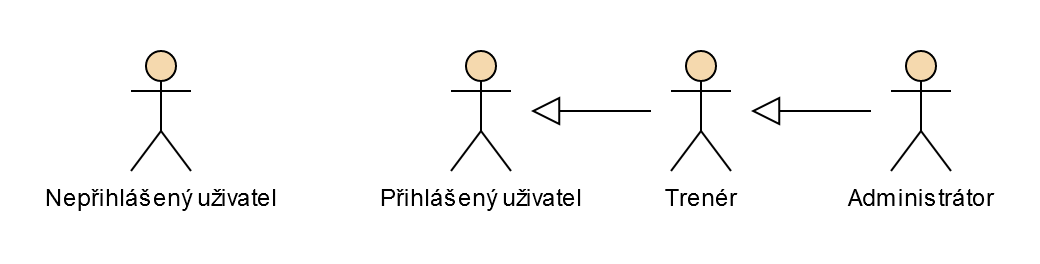
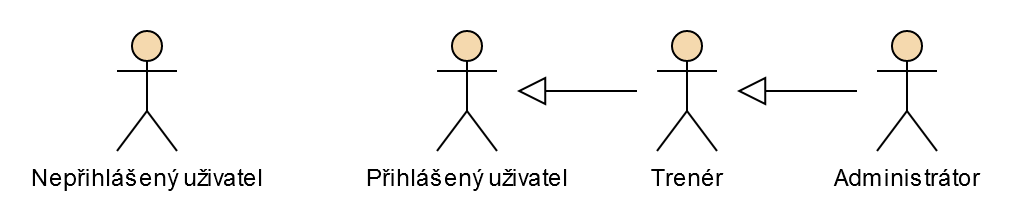
Complete use cases

diff --git a/chapters/analysis/use-cases.tex b/chapters/analysis/use-cases.tex
@@ -2,7 +2,7 @@
 Tato podkapitola se věnuje jednotlivým případům užití, které představují detailnější specifikaci funkčních požadavků. Případy užití poté mohou posloužit jako základ pro~tvorbu uživatelské dokumentace a~také mohou být podkladem pro~tvorbu akceptačních testů. \cite{usecases}
 
 \subsection{Aktéři}
-Aktérem (účastníkem) nazýváme uživatele, který bude pracovat se systémem. Celkem uvažujeme čtyři různé aktéry~–~přihlášeného a~nepřihlášeného uživatele, administrátora a~trenéra. Vztahy mezi těmito aktéry jsou popsány v~následujícím textu a~jsou znázorněny na~obrázku \ref{figure:actors}.
+Aktérem nebo~účastníkem nazýváme osobu (případně její roli), která bude pracovat se systémem. V~naší aplikaci uvažujeme celkem čtyři různé aktéry~–~přihlášeného a~nepřihlášeného uživatele, administrátora a~trenéra. Vztahy mezi těmito aktéry jsou popsány v~následujícím textu a~jsou znázorněny na~obrázku \ref{figure:actors}.
 \begin{description}
 	\item[Nepřihlášený uživatel]\hfill\newline
 	Nepřihlášený uživatel má přistup pouze k~přihlášení a~registraci. Po~provedení jedné z~těchto akcí se stane přihlášeným uživatelem.
@@ -18,14 +18,14 @@ Aktérem (účastníkem) nazýváme uživatele, který bude pracovat se systéme
 	\caption{Aktéři}
 	\label{figure:actors}
 	\centering
-	\includegraphics[width=\textwidth]{images/actors}
+	\includegraphics[width=0.9\textwidth]{images/actors}
 \end{figure}
 
 \subsection{Případy užití}
 \begin{enumerate}[label=\textcolor{decoration}{\textbf{UC\arabic*}}, leftmargin=1cm, align=left, labelwidth=8mm]
 
 	\myItem{registrace}
-	Před~prvním prací se systémem se musí člen klubu zaregistrovat. 
+	Před~prvním přístupem do~systému se musí člen klubu zaregistrovat. 
 	\begin{enumerateNumbers}
 		\item Nepřihlášený uživatel klikne na~položku \emph{Registrace} v~hlavní nabídce.
 		\item Pro~úspěšné dokončení registrace musí vyplnit svou e-mailou adresu, heslo, jméno a~příjmení a~kliknout na~tlačítko \emph{Registrovat}.
@@ -36,27 +36,27 @@ Aktérem (účastníkem) nazýváme uživatele, který bude pracovat se systéme
 	Nepřihlášený uživatel bude při~pokusu o~přístup do~systému vyzván k~přihlášení.
 	\begin{enumerateNumbers}
 		\item Nepřihlášený uživatel zadá svou e-mailovou adresu a~heslo a~klikne na~tlačítko \emph{Přihlásit}.
-		\item Uživatel bude přesměrován na~hlavní stránku aplikace nebo~na~stránku, na~kterou se snažil před~přihlášením přistoupit.
+		\item Pokud přihlášení proběhlo úspěšně, bude uživatel přesměrován na~hlavní stránku aplikace nebo~na~stránku, na~kterou se snažil před~přihlášením přistoupit.
 		\item Přihlášený uživatel má naopak možnost se ze~systému odhlásit kliknutím na~položku \emph{Odhlásit} v~hlavní nabídce.
-	\end{enumerateNumbers}	
+	\end{enumerateNumbers}
 
 	\myItem{zobrazení seznamu událostí\label{uc:listevents}}
 	Tento případ užití popisuje proces zobrazení seznamu událostí evidovaných v~systému.
 	\begin{enumerateNumbers}
-		\item Přihlášený uživatel klikne na~položku \emph{Události} v~hlavní nabídce.
-		\item Ve~výchozím nastavení se zobrazují všechny nadcházející události, avšak upravením nastavení v~horní části stránky lze zobrazit i~minulé události nebo~provést filtraci na~základě typu události, případně na~základě typu závodu.
-		\item Na~jedné stránce se vždy zobrazuje maximální 25~událostí, další události je možné zobrazit přejitím na~další (předchozí) stránku.
+		\item Přihlášený uživatel klikne na~položku \emph{Události} v~hlavní nabídce
+		\item Ve~výchozím nastavení se zobrazují všechny nadcházející události, avšak upravením filtru v~horní části stránky lze zobrazit i~minulé události nebo~provést filtraci na~základě typu události, případně na~základě typu závodu.
+		\item Na~jedné stránce se vždy zobrazuje maximální 25~událostí, další události je možné zobrazit přejitím na~následující (předchozí) stránku.
 	\end{enumerateNumbers}
 
 	\myItem{zobrazení detailních informací o~události\label{uc:eventdetail}}
-	Tento případ užití popisuje proces zobrazení detailních informací o~konkrétní události.
+	V~seznamu událostí jsou zobrazovány pouze základní informace o~událostech, pro~zobrazení detailních informací je nezbytné přejít na~samostatnou stránku.
 	\begin{enumerateNumbers}
 		\item Přihlášený uživatel se může prokliknout na~stránku s~informacemi o~události z(e):
 		\begin{enumerate}[label=\textcolor{decoration}{\textbf{\alph*.}}]
 			\item seznamu událostí (viz~\ref{uc:listevents}).
 			\item hlavní stránky, kde se zobrazuje 5~událostí, u~kterých nejdříve končí uzávěrka přihlášek, a~5~nejbližších událostí, na~které je uživatel přihlášený.
 		\end{enumerate}
-		\item Na~této stránce jsou následně zobrazeny všechny informace o~události, které se v~systému evidují (seznam evidovaných informací viz~\ref{f:events}).
+		\item Přechod na~stránku se~všemi evidovanými informacemi o~události (viz~\ref{f:events}) proběhne po~kliknutí na~název události v~jednom ze~seznamů uvedených výše.
 	\end{enumerateNumbers}
 
 	\myItem{přihlášení na~událost}
@@ -64,7 +64,7 @@ Aktérem (účastníkem) nazýváme uživatele, který bude pracovat se systéme
 	\begin{enumerateNumbers}
 		\item Přihlášený uživatel přejde na~stránku s~detailními informacemi o~události (viz~\ref{uc:eventdetail}).
 		\item Uživatel vybere jednu z~nabízených kategorií a~volitelně sdělí, zda má možnost jet vlastním autem a~svézt s~sebou i~další členy klubu.
-		\item Účast na~události potvrdí kliknutím na~tlačítko \emph{Přihlásit}.
+		\item Účast na~události potvrdí uživatel kliknutím na~tlačítko \emph{Přihlásit}.
 	\end{enumerateNumbers}
 
 	\myItem{odhlášení z~události}
@@ -75,26 +75,65 @@ Aktérem (účastníkem) nazýváme uživatele, který bude pracovat se systéme
 	\end{enumerateNumbers}
 
 	\myItem{napsání komentáře}
-	Tento případ užití popisuje přidání komentáře ke~konkrétní události.
+	Tento případ užití popisuje proces přidání komentáře ke~konkrétní události.
 	\begin{enumerateNumbers}
 		\item Přihlášený uživatel přejde na~stránku s~detailními informacemi o~události (viz~\ref{uc:eventdetail}).
-		\item Po~napsání komentáře do~příslušného textového pole klikne na~tlačítko \emph{Odeslat}.
+		\item Po~napsání komentáře do~textového pole klikne na~tlačítko \emph{Přidat komentář}.
 	\end{enumerateNumbers}
 
 	\myItem{úprava osobních údajů a~preferencí}
+	Přihlášený uživatel si může změnit svou e-mailovou adresu, heslo a~povolit (zakázat) zasílání informačních e-mailů.
+	\begin{enumerateNumbers}
+		\item Přihlášený uživatel klikne na~položku \emph{Nastavení} v~hlavní nabídce.
+		\item Po~upravení požadovaných údajů a~preferencí klikne na~tlačítko \emph{Uložit změny}.
+	\end{enumerateNumbers}
+
 	\myItem{přidání události}
+	Tento případ užití popisuje přidání nové události do~systému.
+	\begin{enumerateNumbers}
+		\item Trenér klikne na~položku \emph{Administrace} v~hlavní nabídce a~následně vybere možnost \emph{Vytvořit novou událost}.
+		\item Pokud je přidávaná událost již evidovaná v~IS~ORIS, může uživatel zadat ORIS~ID události a~většina požadovaných informací se automaticky předvyplnění.
+		\item Po~(do)vyplnění požadovaných informací se událost přidá do~systému kliknutím na~tlačítko \emph{Přidat novou událost}.
+	\end{enumerateNumbers}
+
 	\myItem{úprava události}
+	Tento případ užití popisuje proces upravení události již evidované v~systému.
+	\begin{enumerateNumbers}
+		\item Trenér klikne na~položku \emph{Administrace} v~hlavní nabídce a~následně vybere ze~seznamu událost, kterou si přeje upravit.
+		\item Po~upravení požadovaných informací klikne na~tlačítko \emph{Uložit změny}.
+	\end{enumerateNumbers}
+
 	\myItem{synchronizace přihlášek}
-	\myItem{vytvoření oznámení}
+	Role trenér v~systému sama o~sobě nestačí pro~odeslání přihlášek do~IS~ORIS. Je zapotřebí, aby uživatel měl také zřízený účet v~IS~ORIS a~měl práva na~přihlašování závodníků klubu.
+	\begin{enumerateNumbers}
+		\item Trenér klikne na~položku \emph{Administrace} v~hlavní nabídce a~následně vybere možnost \emph{Synchronizace přihlášek}.
+		\item Na~zobrazené stránce vybere požadovanou událost a~zadá přístupové údaje do~IS~ORIS.
+		\item Přihlášky evidované u~dané události budou odeslány po~kliknutí na~tlačítko \emph{Synchronizovat přihlášky}.
+	\end{enumerateNumbers}
+
+	\myItem{vytvoření, úprava a smazání oznámení}
+	Tento případ užití popisuje vytvoření, úpravu a~smazání oznámení.
+	\begin{enumerateNumbers}
+		\item Trenér na~hlavní stránce klikne na~ikonku pro~přidání nového oznámení nebo~na~ikonku pro~upravení již~existujícího oznámení.
+		\item Po~vyplnění (upravení) požadovaných informací klikne na~tlačítko \emph{Uložit oznámení}.
+		\item Pro~smazání oznámení klikne trenér na~ikonku koše vedle odpovídajícího oznámení.
+	\end{enumerateNumbers}
+
 	\myItem{úprava uživatele}
+	Tento případ užití popisuje proces upravení informací o~registrovaném uživateli.
+	\begin{enumerateNumbers}
+		\item Administrátor klikne na~položku \emph{Administrace} v~hlavní nabídce a~následně vybere ze~seznamu uživatele, kterého si přeje upravit.
+		\item Po~upravení požadovaných informací klikne na~tlačítko \emph{Uložit změny}.
+	\end{enumerateNumbers}
+
 \end{enumerate}
 
-\subsection{Pokrytí funkčních požadavků případy užití}
+\subsection{Pokrytí funkčních požadavků v případech užití}
 V~tabulce \ref{table:use-cases} je zachyceno pokrytí funkčních požadavků v~jednotlivých případech užití. Symbol~\Checkmark říká, že příslušný funkční požadavek je součástí daného případu užití.
 
 \begin{table}[h]
 	\centering
-	\caption{\label{table:use-cases}Mapování funkčních požadavků na případy užití}
+	\caption{\label{table:use-cases}Mapování funkčních požadavků na~případy užití}
 	\begin{tabularx}{0.95\textwidth}{|C||C|C|C|C|C|C|C|}
 		\hline
 			 & F1 & F2 & F3 & F4 & F5 & F6 & F7 				\\ \hline\hline

diff --git a/parts/medium.tex b/parts/medium.tex
@@ -1,12 +1,11 @@
 \chapter{Obsah přiloženého média}
 
-
 	\dirtree{%
 		.1 readme.txt\DTcomment{stručný popis obsahu média}.
-		.1 exe\DTcomment{adresář se spustitelnou formou implementace}.
+		.1 doc\DTcomment{adresář s dokumentací}.
 		.1 src.
 		.2 impl\DTcomment{zdrojové kódy implementace}.
 		.2 thesis\DTcomment{zdrojová forma práce ve formátu \LaTeX{}}.
 		.1 text\DTcomment{text práce}.
-		.2 thesis.pdf\DTcomment{text práce ve formátu PDF}.
+		.2 BP\_Paukert.pdf\DTcomment{text práce ve formátu PDF}.
 	}
